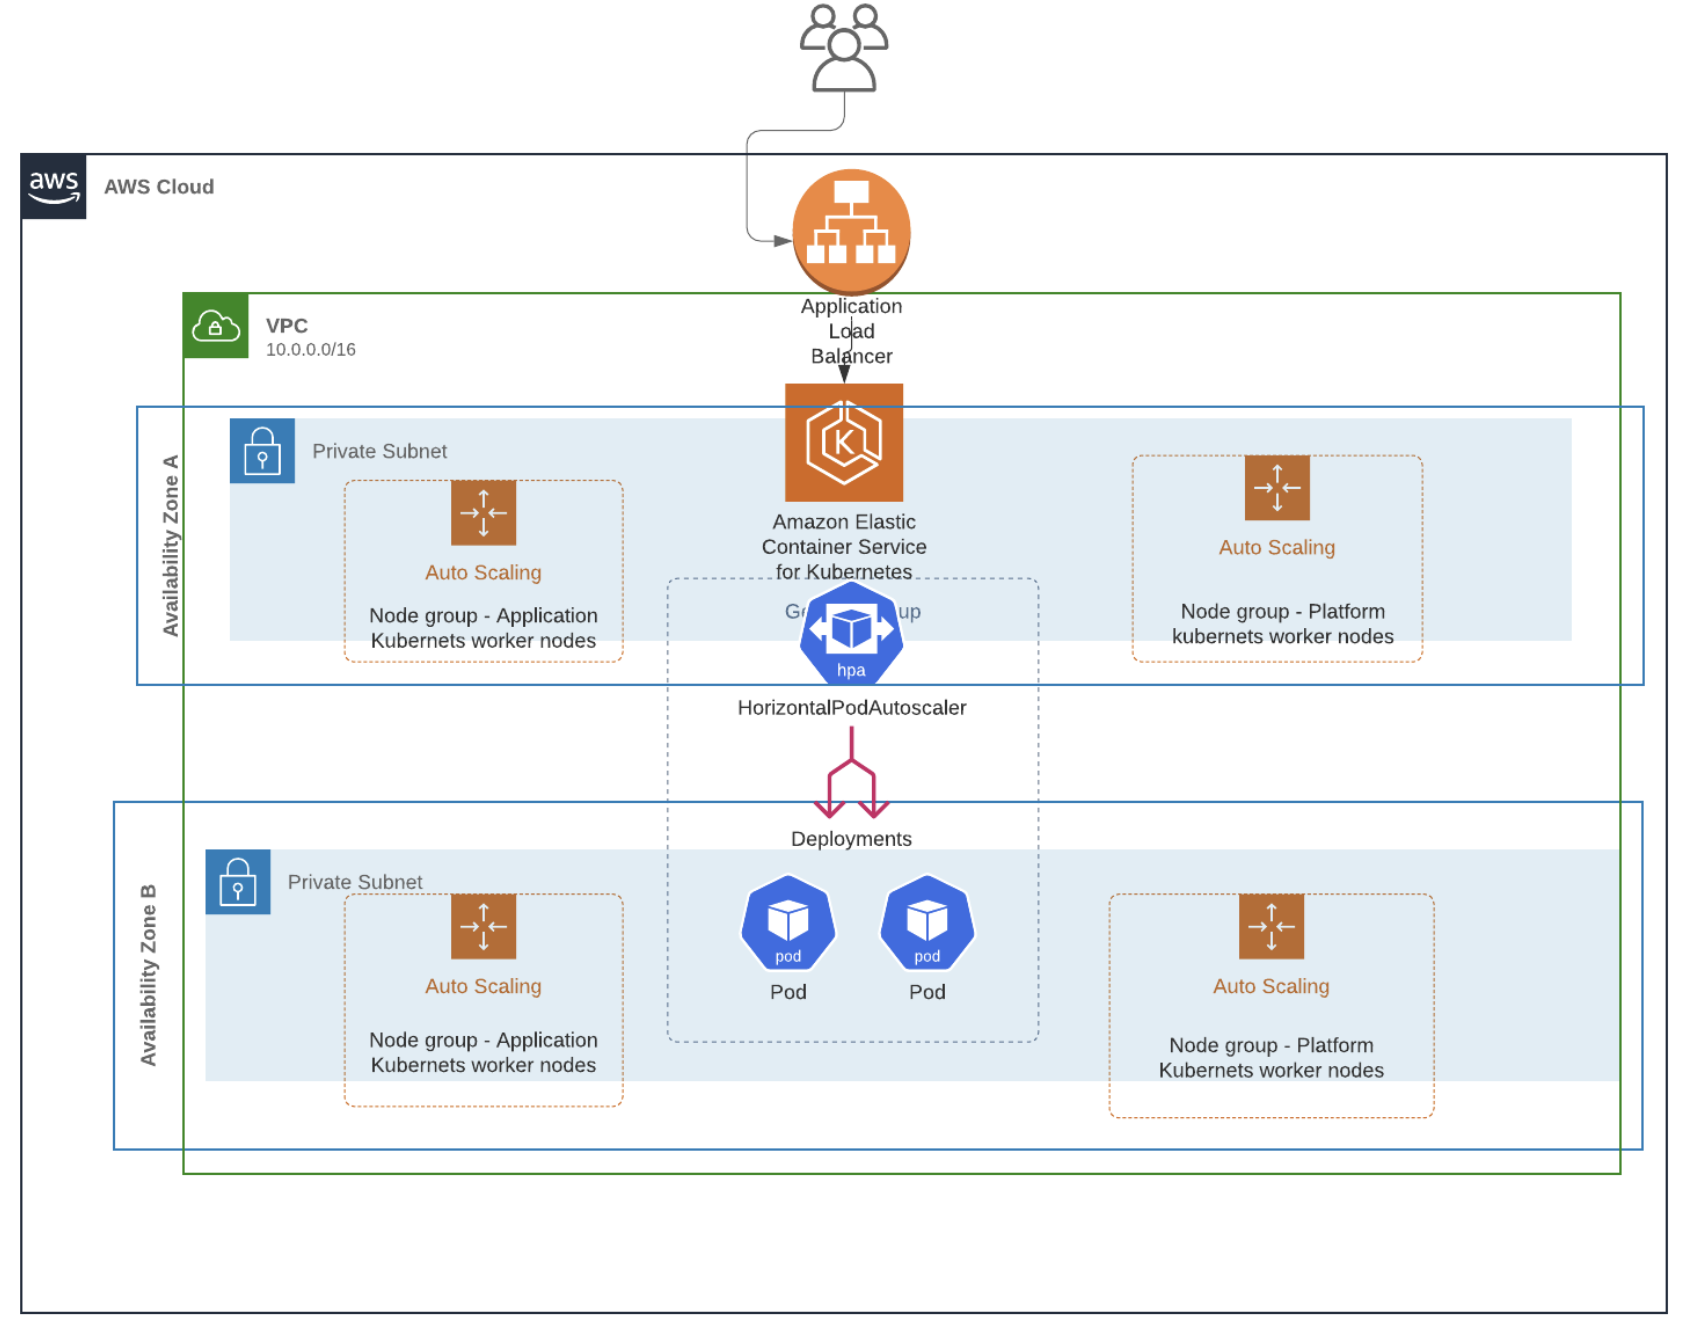
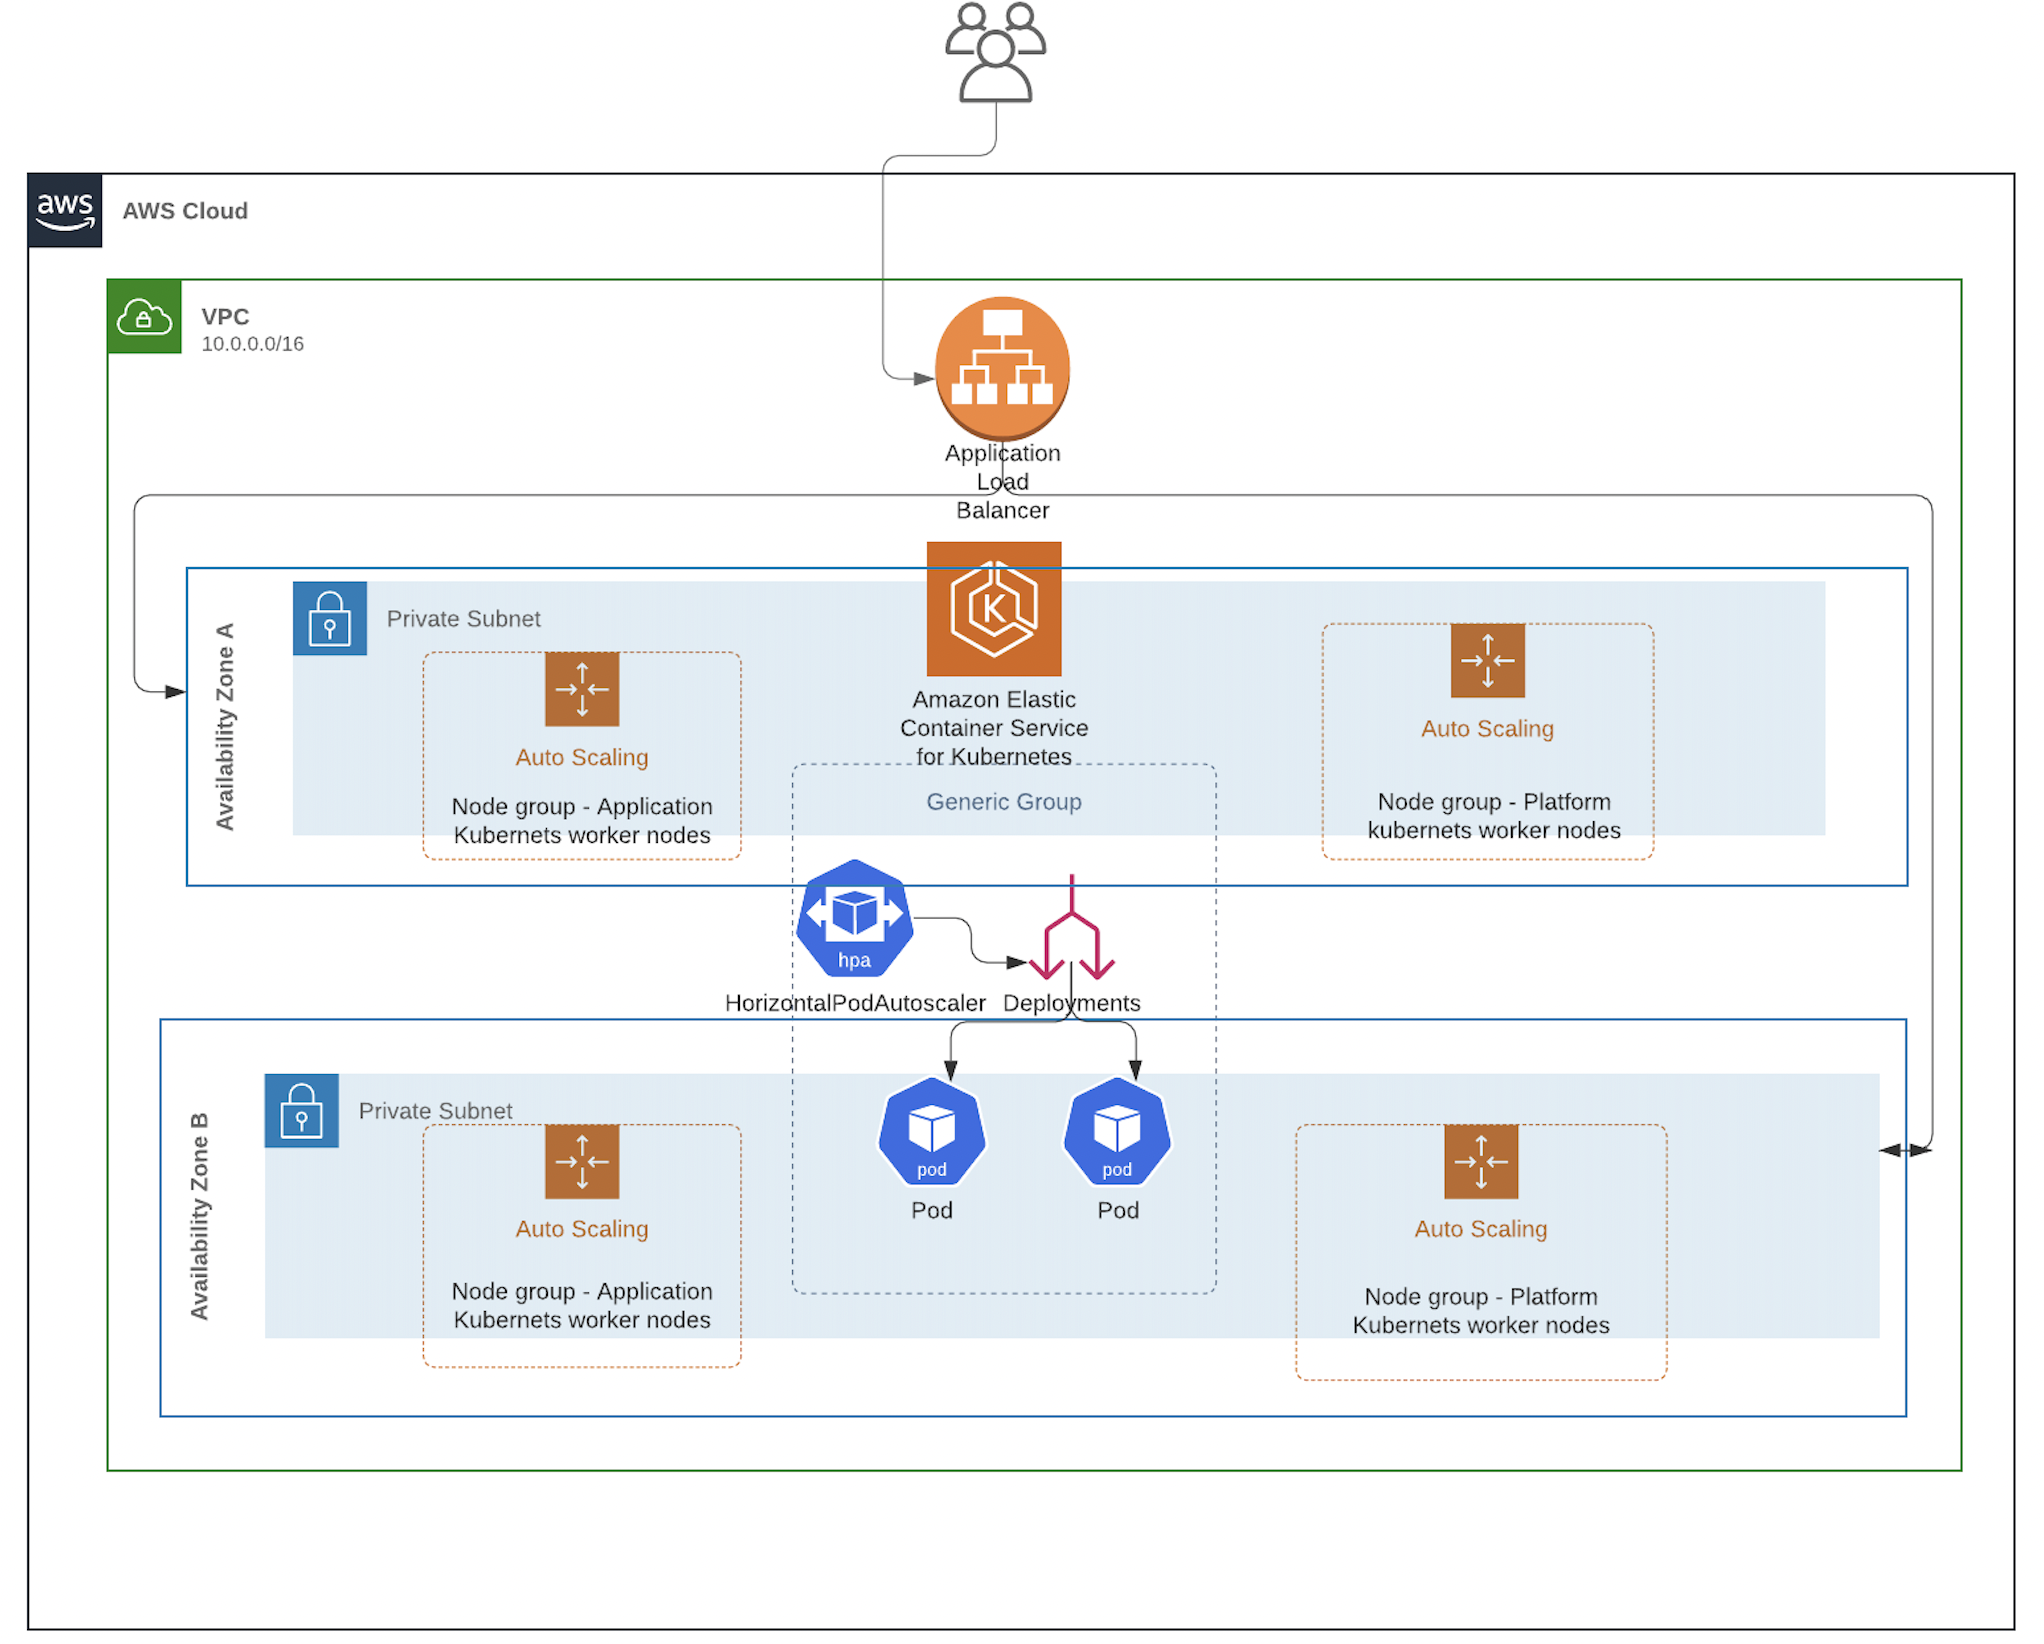
documentation updated

Changed region(s): [[0.0, 0.0, 0.9976, 1.0]]

diff --git a/README.md b/README.md
@@ -48,7 +48,10 @@ make deploy
 - Now ALB url will be avilable by ```kubectl get svc``` or go the AWS ALB console and copy and use it on any browser. 
 - The port 80 for the NodeJS application is open on the internet.  
 
-
+## How fault tolerance with high availability acheived
+- K8s resource are deployed as a deployment and mapped to Horizontal Pod Autoscaler.
+- HPA will look after the pods memory and cpu utilization and it will increase the pods count and decrease the pod count if the load pressure coming under control.  
+- K8s worker nodes are deployed are AWS Auto Scalling Group.   
 
 ## Performance Testing / Load Testing.  
 - use the following command to do perfomance / load testing. 
@@ -61,15 +64,20 @@ make deploy
 ```
 
 - open your local browser and use localhost:8089 (The IP varies Depends on where you are running the above docker command)
-
 - Give the user and load iteration above 1000 concurrent users to generate the load. 
+- Monitor the pods counts and HPA as per the load the pods count will be increased via hpa component. 
 
 
 ## Application lifecycle Management. 
 
 - Make sure to do the code change for the Nodejs app given on this same directory. 
 - Do docker build and push it to the Docker registry
-- Once we have the latest image avilable make a branch from this repositary
+- Once we have the latest image avilable create a branch from this repositary
 - append new image tag on the NodeJS helm chart values.yaml file. 
 - Creat a PR
 - Apply the change by running terraform ```make deploy``` 
+
+## Enhancement 
+- The whole orchestration can be performed via Jenkins as a scripted/Declatrative pipeline
+- Helm chart can be packaged and placed in a seperate registry which will give more leverage for our App lifecycle management. 
+- GitOps model can be implemented as via the branch build and PR's terraform can be posted on the PR itself via GitHook from Jenkins slave to Git PR. Once approved promotion and apply part can be done via the pipeline. 
